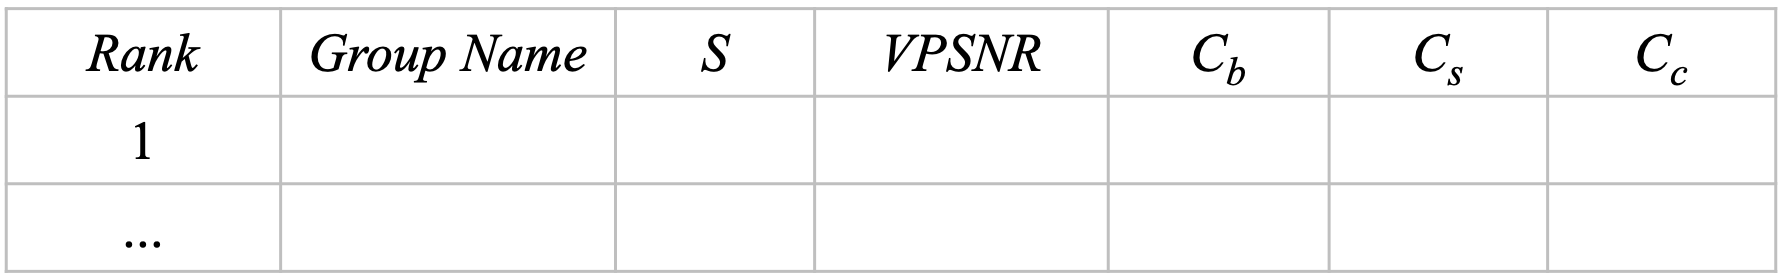
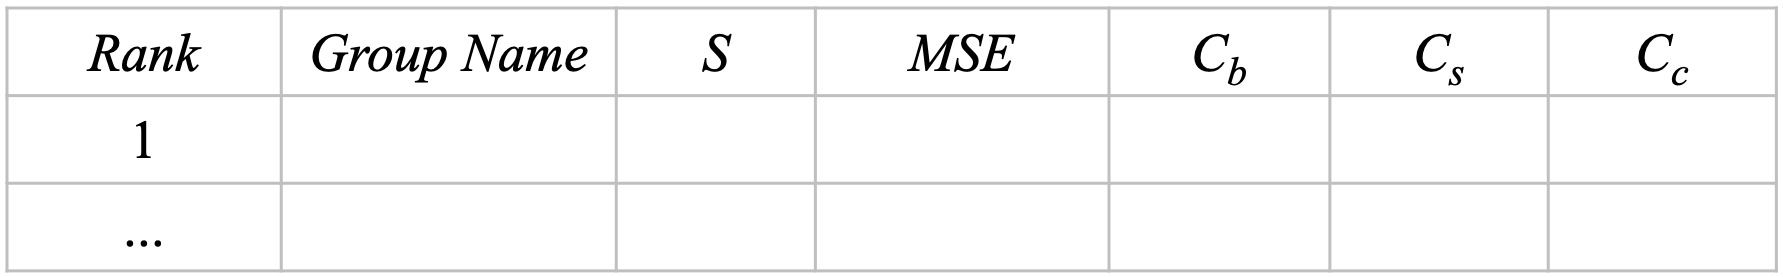
update: 1. the realeas.md file, add the organizers' email for submission 2. update the rank table as well as its description 3. fix the bug of transcoding approach

diff --git a/e3po/approaches/freedom/freedom_approach.py b/e3po/approaches/freedom/freedom_approach.py
@@ -22,7 +22,7 @@ import cv2
 import numpy as np
 import yaml
 from e3po.utils import get_logger
-from e3po.utils.projection_utilities import fov_to_3d_polar_coord
+from e3po.utils.projection_utilities import fov_to_3d_polar_coord, _3d_polar_coord_to_pixel_coord
 from e3po.utils.json import get_tile_info
 
 
@@ -152,7 +152,7 @@ def transcode_video(curr_video_frame, curr_frame_idx, network_stats, motion_hist
     z = np.outer(np.cos(v), np.ones(np.size(u)))
 
     # rotation angles
-    a, b, r = [yaw, -pitch, 0]
+    a, b, r = [yaw, -pitch, 0]  # the rotation matrix needs a negative sign
 
     # rotation matrix
     rot_a = np.array([np.cos(a) * np.cos(b), np.cos(a) * np.sin(b) * np.sin(r) - np.sin(a) * np.cos(r),
@@ -181,7 +181,9 @@ def transcode_video(curr_video_frame, curr_frame_idx, network_stats, motion_hist
 
     user_video_spec = {
         'segment_info': {'yaw': yaw, 'pitch': pitch, 'scale': scale},
-        'tile_info': {'chunk_idx': curr_frame_idx, 'tile_idx': 1}
+        'tile_info': {'chunk_idx': curr_frame_idx, 'tile_idx': 1},
+        'curr_ts': motion_history[-1]['system_ts'],
+        'motion_ts': motion_history[-1]['motion_ts']
     }
 
     return vam_frame, user_video_spec, user_data
@@ -219,13 +221,19 @@ def generate_display_result(curr_display_frames, current_display_chunks, curr_fo
     if user_data is None or "video_info" not in user_data:
         user_data = init_user(user_data, video_info)
 
-    client_fov = [float(curr_fov['curr_motion']['yaw']), float(-curr_fov['curr_motion']['pitch']), 0]
+    client_fov = [float(curr_fov['curr_motion']['yaw']), float(curr_fov['curr_motion']['pitch']), 0]
     server_fov = get_server_fov(video_size, frame_idx)
 
-    # generate client image
+    # render vam to the sphere
+    ori_erp_img = vam_2_ori_erp(curr_display_frames[0], server_fov, user_data)
+
+    # generate the client image
     _3d_polar_coord = fov_to_3d_polar_coord(client_fov, curr_fov['range_fov'], curr_fov['fov_resolution'])
-    coord_x_arr, coord_y_arr = _3d_polar_coord_to_pixel_coord(_3d_polar_coord, server_fov, user_data)
-    fov_result = generate_fov_img(curr_display_frames[0], coord_x_arr, coord_y_arr)
+    pixel_coord = _3d_polar_coord_to_pixel_coord(_3d_polar_coord, 'erp', [3840, 7680])
+
+    dstMap_u, dstMap_v = cv2.convertMaps(pixel_coord[0].astype(np.float32), pixel_coord[1].astype(np.float32),
+                                         cv2.CV_16SC2)
+    fov_result = cv2.remap(ori_erp_img, dstMap_u, dstMap_v, cv2.INTER_LINEAR)
 
     # write the calculated fov image into file
     cv2.imwrite(dst_video_frame_uri, fov_result, [cv2.IMWRITE_JPEG_QUALITY, 100])
@@ -261,88 +269,83 @@ def get_server_fov(video_size, frame_idx):
     return server_motion
 
 
-def generate_fov_img(curr_display_frame, coor_x_arr, coor_y_arr):
+def recover_erp_img(vam_image, erp_height, erp_width, scale_factor):
     """
-    Generate fov image from the current available frame
-
+    Generate the rotated erp image, from which the vam is cropped
     Parameters
     ----------
-    curr_display_frame: array
-        current available frame, i.e., vam in freedom approach
-    coor_x_arr: array
-        horizontal pixel coordinates
-    coor_y_arr: array
-        vertical pixel coordinates
+    vam_image: current available viewport image
+    erp_height: original erp height
+    erp_width: original erp weight
+    scale_factor: parameter for scaling the original erp frame
 
     Returns
     -------
-    fov_result: array
-        the generated fov frame result
+    the recovered erp image
     """
+    scaled_erp_height, scaled_erp_width = int(erp_height * scale_factor), int(erp_width * scale_factor)
+    vam_height, vam_width = vam_image.shape[:2]
+    scaled_img = np.zeros((scaled_erp_height, scaled_erp_width, 3), np.uint8)
+    scaled_img[int(scaled_erp_height / 2 - vam_height / 2):int(scaled_erp_height / 2 + vam_height / 2), int(scaled_erp_width / 2 - vam_width / 2):int(scaled_erp_width / 2 + vam_width / 2), :] = vam_image
 
-    dst_map_u, dst_map_v = cv2.convertMaps(coor_x_arr.astype(np.float32), coor_y_arr.astype(np.float32), cv2.CV_16SC2)
-    fov_result = cv2.remap(curr_display_frame, dst_map_u, dst_map_v, cv2.INTER_LINEAR)
+    des_size = [erp_width, erp_height]
+    erp_img = cv2.resize(scaled_img, des_size, interpolation=cv2.INTER_AREA)
 
-    return fov_result
+    return erp_img
 
 
-def _3d_polar_coord_to_pixel_coord(_3d_polar_coord, curr_motion, user_data):
+def vam_2_ori_erp(vam_image, server_motion, user_data):
     """
-    For the freedom approach, generate corresponding pixel coordinates from 3d polar coordinates
-
+    Generate the original erp image
     Parameters
     ----------
-    _3d_polar_coord: array
-        3d polar coordinate
-    curr_motion: dict
-        motion for generating the display frame, with format {yaw, pitch, scale}
-    user_data: dict
-        user related parameters and information
+    vam_image: current available viewport image
+    server_motion: server motion
+    user_data:
+
     Returns
     -------
-    coor_x_arr: array
-        horizontal pixel coordinates
-    coor_y_arr: array
-        vertical pixel coordinates
+    The original erp image
     """
+    scale = server_motion['scale']
 
-    config_params = user_data['config_params']
-    server_scale = curr_motion['scale']
-    a, b, r = [curr_motion['yaw'], -curr_motion['pitch'], 0]
+    erp_width = user_data['video_info']['width']
+    erp_height = user_data['video_info']['height']
+    scale_factor = user_data['config_params']['scale_factors'][scale]
+
+    recovered_erp_img = recover_erp_img(vam_image, erp_height, erp_width, scale_factor)
+
+    # target image coordinates in the dst image
+    u = np.linspace(0.5, erp_width - 0.5, erp_width) * np.pi * 2 / erp_width
+    v = np.linspace(0.5, erp_height - 0.5, erp_height) * np.pi / erp_height
+
+    # Convert the image coordinates to coordinates in 3D
+    x = np.outer(np.sin(v), np.cos(u))
+    y = np.outer(np.sin(v), np.sin(u))
+    z = np.outer(np.cos(v), np.ones(np.size(u)))
+
+    # rotation angles
+    a, b, r = [float(server_motion['yaw']), -float(server_motion['pitch']), 0]  # the rotation matrix needs a negative sign
+
+    # inverse rotation matrix
     rot_a = np.array([np.cos(a) * np.cos(b), np.sin(a) * np.cos(b), -np.sin(b)])
     rot_b = np.array([np.cos(a) * np.sin(b) * np.sin(r) - np.sin(a) * np.cos(r),
                       np.sin(a) * np.sin(b) * np.sin(r) + np.cos(a) * np.cos(r), np.cos(b) * np.sin(r)])
     rot_c = np.array([np.cos(a) * np.sin(b) * np.cos(r) + np.sin(a) * np.sin(r),
                       np.sin(a) * np.sin(b) * np.cos(r) - np.cos(a) * np.sin(r), np.cos(b) * np.cos(r)])
 
-    u, v = np.split(_3d_polar_coord, 2, axis=-1)
-    v = np.pi / 2 - v
-    u = u.reshape(u.shape[:2])
-    v = v.reshape(v.shape[:2])
-
-    x = np.sin(v) * np.cos(u)
-    y = np.sin(v) * np.sin(u)
-    z = np.cos(v)
-
+    # rotate the image to the correct place
     xx = rot_a[0] * x + rot_a[1] * y + rot_a[2] * z
     yy = rot_b[0] * x + rot_b[1] * y + rot_b[2] * z
     zz = rot_c[0] * x + rot_c[1] * y + rot_c[2] * z
-    xx = np.clip(xx, -1, 1)
-    yy = np.clip(yy, -1, 1)
     zz = np.clip(zz, -1, 1)
 
-    u = np.arctan2(yy, xx)
-    v = np.pi / 2 - np.arccos(zz)
+    # calculate the (u, v) in the original erp map
+    map_u = ((np.arctan2(yy, xx) + 2 * np.pi) % (2 * np.pi)) * erp_width / (2 * np.pi) - 0.5
+    map_v = np.arccos(zz) * erp_height / np.pi - 0.5
 
-    # calculate Vam coverage
-    view_coverage_width = config_params['crop_factor'][0] / config_params['scale_factors'][server_scale] * (2 * np.pi)
-    view_coverage_height = config_params['crop_factor'][1] / config_params['scale_factors'][server_scale] * np.pi
-    view_coverage_height = view_coverage_height if view_coverage_height <= np.pi else np.pi
-    coor_x_arr = (u / view_coverage_width + 0.5) * config_params['vam_size'][0] - 0.5
-    coor_y_arr = (-v / view_coverage_height + 0.5) * config_params['vam_size'][1] - 0.5
+    # remap
+    dstMap_u, dstMap_v = cv2.convertMaps(map_u.astype(np.float32), map_v.astype(np.float32), cv2.CV_16SC2)
+    ori_erp_img = cv2.remap(recovered_erp_img, dstMap_u, dstMap_v, cv2.INTER_LINEAR)
 
-    vam_width, vam_height = config_params['vam_size']
-    coor_x_arr = np.clip(coor_x_arr, 0, vam_width - 1)
-    coor_y_arr = np.clip(coor_y_arr, 0, vam_height - 1)
-
-    return coor_x_arr, coor_y_arr
+    return ori_erp_img

diff --git a/e3po/data/transcoding_data.py b/e3po/data/transcoding_data.py
@@ -85,7 +85,7 @@ class TranscodingData(BaseData):
         motion_history = []
         motion_history = update_motion(0, 0, motion_history, motion_record[0])
         last_frame_idx = -1
-        pre_downlode_duration = self.rtt / 2
+        pre_downlode_duration = self.rtt
         update_interval = int(1000 / self.system_opt['motion_trace']['motion_frequency'])
 
         # pre_download_duration
@@ -103,8 +103,9 @@ class TranscodingData(BaseData):
 
         # after pre_download_duration
         for motion_ts in motion_clock:
-            motion_history = update_motion(motion_ts, motion_ts, motion_history, motion_record[motion_ts])
-            curr_frame_idx = int((motion_ts + pre_downlode_duration) * self.video_info['video_fps'] // 1000.0)
+            curr_ts = motion_ts + pre_downlode_duration
+            motion_history = update_motion(motion_ts, curr_ts, motion_history, motion_record[motion_ts])
+            curr_frame_idx = int(curr_ts * self.video_info['video_fps'] // 1000.0)
             if curr_frame_idx >= int(self.video_info['video_fps']) * int(self.video_info['duration']):
                 continue
             if curr_frame_idx == last_frame_idx:

diff --git a/e3po/evaluation/transcoding_eval.py b/e3po/evaluation/transcoding_eval.py
@@ -79,7 +79,7 @@ class TranscodingEvaluation(BaseEvaluation):
             self.psnr.append(psnr)
             self.ssim.append(ssim)
             self.mse.append(mse)
-            evaluation_result.append([{'frame_idx': frame_idx, 'psnr': psnr, 'ssim': ssim, 'mse': mse, 'yaw': curr_fov['curr_motion']['yaw'], 'pitch': curr_fov['curr_motion']['pitch']}])
+            evaluation_result.append([{'frame_idx': frame_idx, 'psnr': psnr, 'ssim': ssim, 'mse': mse, 'yaw': curr_fov['curr_motion']['yaw'], 'pitch': curr_fov['curr_motion']['pitch'], 'motion_ts': motion_ts}])
         encode_display_video(self)
         evaluation_result.append(evaluate_misc(self, arrival_list, video_size))
         write_evaluation_json(evaluation_result, self.evaluation_json_path)

diff --git a/mmsys24gc/submission.md b/mmsys24gc/submission.md
@@ -1,14 +1,14 @@
 # Submission
 Contestants need to submit two parts of content, namely the code files and a technical report.
 
-**Code files:** Put all your python source code and auxiliary files in one folder. Compress the folder to a zip file or tar ball and submit to organizer’s email. You may also upload your solution to a git repo and email us the repo URL. Please don’t include any E3PO code in your submission. We will run your code using the latest version of official E3PO. We accept binary code submission as well but you should contact the organizer early to make sure the binary file you generate can run on the server for final evaluation. 
+**Code files:** Put all your python source code and auxiliary files in one folder. Compress the folder to a zip file or tar ball and submit to organizer’s email (guiyongqiang@bytedance.com and suoyanyan@bytedance.com). You may also upload your solution to a git repo and email us the repo URL. Please don’t include any E3PO code in your submission. We will run your code using the latest version of official E3PO. We accept binary code submission as well but you should contact the organizer early to make sure the binary file you generate can run on the server for final evaluation. 
 
 **Technical report:** Contestants also need to submit a technical report ([ACM style format](https://www.acm.org/publications/proceedings-template), up to 6 pages plus references) that follows the requirements in [Open-source Software and Datasets](https://2024.acmmmsys.org/participation/cfp/), which should include detailed information about their implemented algorithm. Even though the winners are not determined by the quality of the technical report, you should expect to have your technical report meeting the ACM publishing quality standard before the [camera-ready due](https://2024.acmmmsys.org/gc/360-vod/) date, **which is only one week after we announce winning teams**.
 
 # Scoring
 We will follow the defined performance metric score for performance evaluation. Currently, we plan to evaluate all contestants' codes in two stages.
 <div align=center>
-    <img src=./formula.jpg width=300 height= />
+    <img src=./formula.jpg width=400 height= />
 </div>
 
 **Stage 1:** Code development and testing stage. All participating teams can use the provided video and motion trace to test their implemented solutions. You are encouraged to report your scores to the organizers or submit your code and we can test-run your simulation in a similar process to the final evaluation. Meanwhile, we will manage a score board and update daily. Please join the official [discussion group](mmsys24gc_group.jpeg) for more information about the score board.

diff --git a/mmsys24gc/release.md b/mmsys24gc/release.md
@@ -14,7 +14,7 @@ To foster advancements in 360-degree video on-demand streaming, ByteDance presen
 
 
 # Task
-Contestants shall design and implement a 360-degree video on-demand streaming solution using E3PO. The goal of the solution is to deliver the best user viewing quality using the least system resources. We use the objective video quality of user's actual viewing area on the terminal device, measured by [Viewport PSNR](https://web.archive.org/web/20160909173146id_/http://web.stanford.edu:80/~harilaks/pdfs/2015_ISMAR.pdf) (denoted as $VPSNR$ in this challenge) to evaluate the user viewing quality. In terms of system recources, we consider three major costs:
+Contestants shall design and implement a 360-degree video on-demand streaming solution using E3PO. The goal of the solution is to deliver the best user viewing quality using the least system resources. We use the objective video quality of user's actual viewing area on the terminal device, measured by $MSE$ to evaluate the user viewing quality. In terms of system recources, we consider three major costs:
 - $C_b$: the bandwidth cost of streaming all data from the server to user
 - $C_s$: the storage cost of storing video data on the server
 - $C_c$: the computation cost for some solutions that require real-time processing or transcoding
